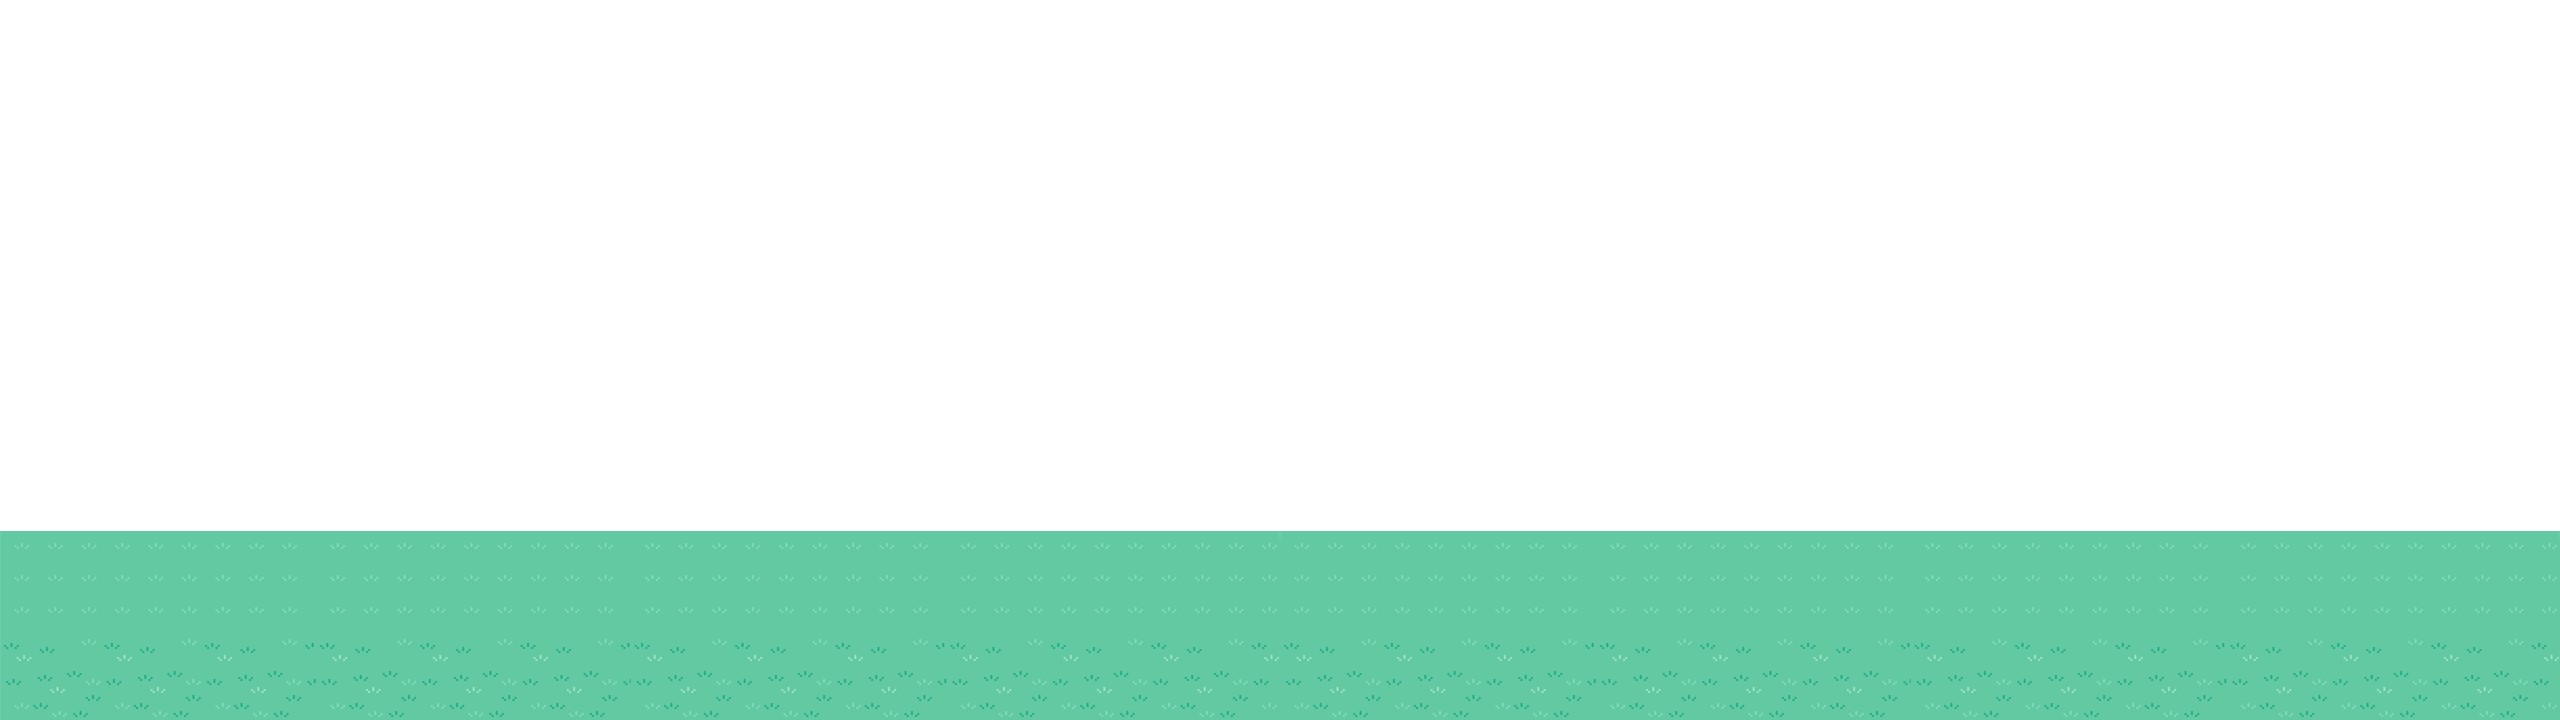
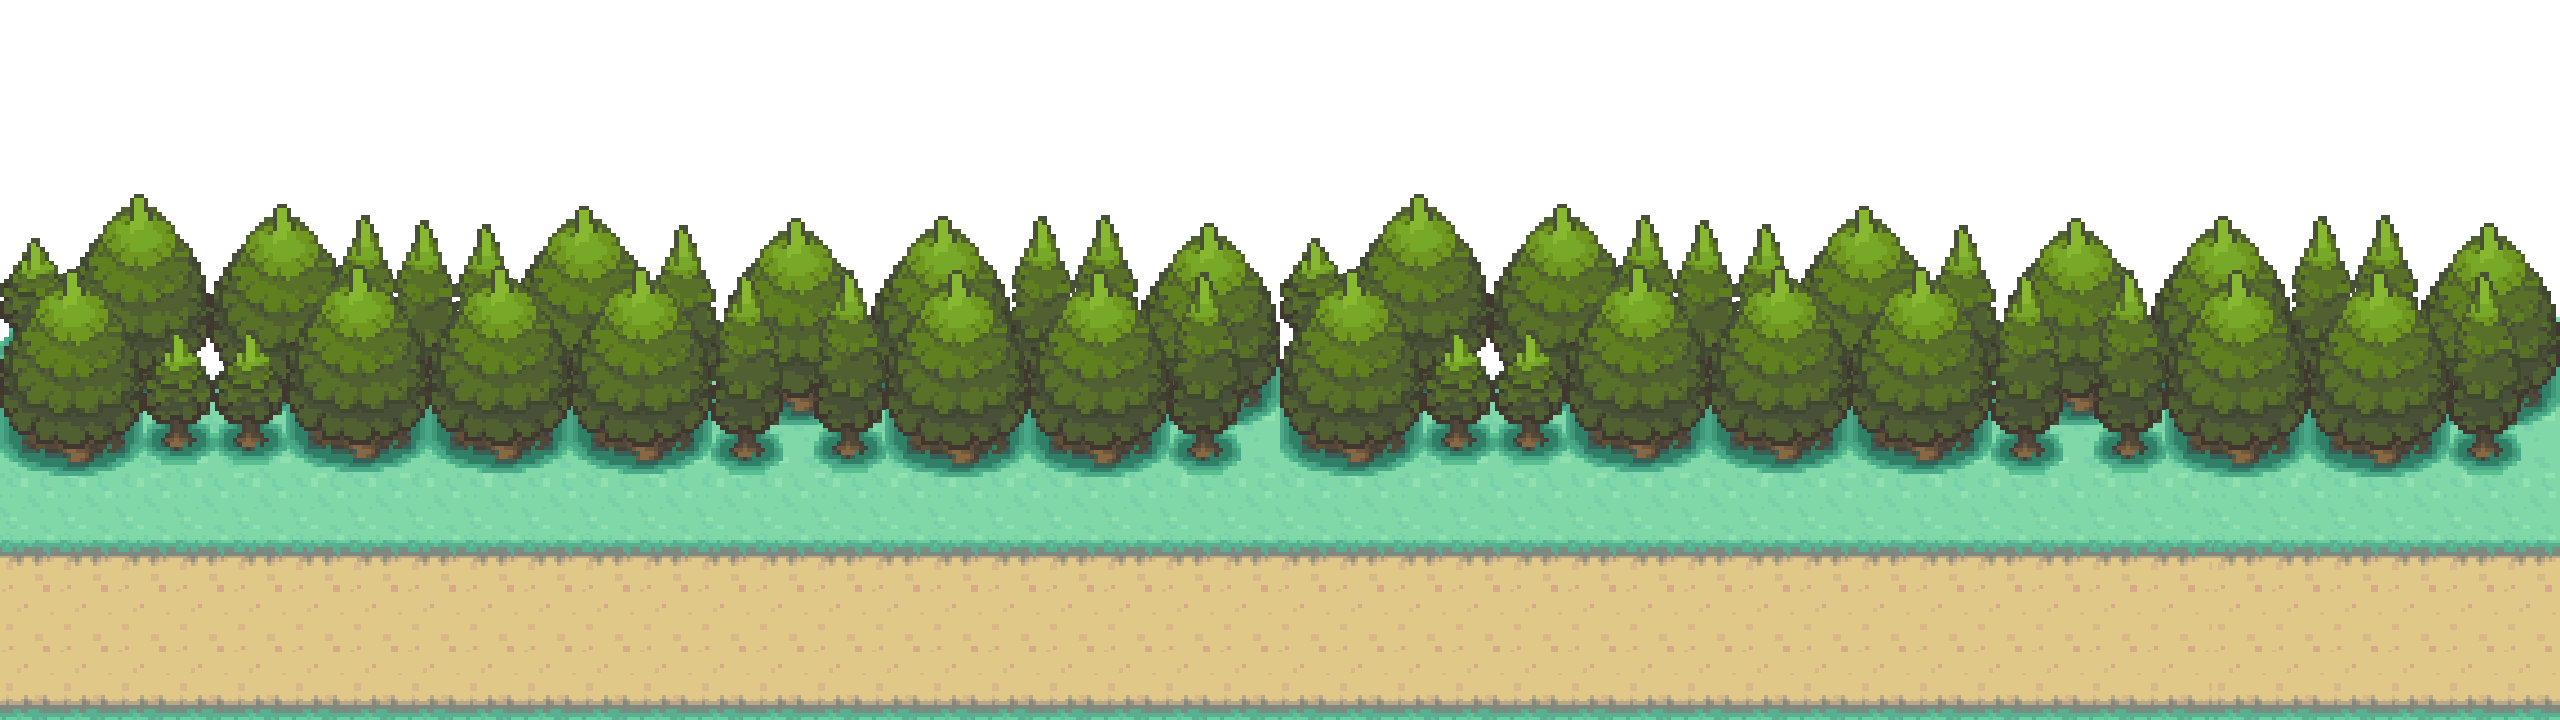
Añadidas capas al fondo

diff --git a/Pokemon/src/pantalla/Pantalla.java b/Pokemon/src/pantalla/Pantalla.java
@@ -63,6 +63,8 @@ public class Pantalla extends JFrame implements Runnable, KeyListener, MouseList
 		bf.getGraphics().drawImage(fondo.getNubes(), fondo.getX(), 0, this);
 		fondo.moverNubes();
 		
+		bf.getGraphics().drawImage(terreno.getMontes().getImagen(), terreno.getMontes().getX(), 0, this);
+		bf.getGraphics().drawImage(terreno.getBosque().getImagen(), terreno.getBosque().getX(), 0, this);
 		bf.getGraphics().drawImage(terreno.getImagen(), terreno.getX(), 0, this);
 		
 		for(Entidad entidad : entidades) {				
@@ -78,8 +80,8 @@ public class Pantalla extends JFrame implements Runnable, KeyListener, MouseList
 				mov = true;
 			}
 			int escala = entidad.getEscala();
-			int dx1 = this.getWidth()/2 - (8*escala);
-			int dy1 = this.getHeight()/2 - (10*escala) + 175;
+			int dx1 = this.getWidth()/2 - (entidad.getX()*escala);
+			int dy1 = this.getHeight()/2 - (entidad.getY()*escala) + 200;
 			int dx2 = (dx1 + (16*escala));
 			int dy2 = (dy1 + (20*escala));
 			int sx1 = entidad.getSx();

diff --git a/Pokemon/src/entidades/Terreno.java b/Pokemon/src/entidades/Terreno.java
@@ -1,15 +1,35 @@
 package entidades;
 
 public class Terreno extends Entidad {
+	private Entidad monte;
+	private Entidad bosque;
 
 	public Terreno() {
-		super("fondo/suelo", -1240, 0);
+		super("fondo/suelo", -1280, 0);
+		bosque = new Entidad("fondo/suelo2", -1280, 0);
+		monte = new Entidad("fondo/montes", -1280, 0);
 	}
 	
 	public void moverTerreno() {
-		setX(getX()+2);
+		setX(getX()+4);
 		if(getX() >= 0) {
-			setX(-1240);
+			setX(-1280);
 		}
+		bosque.setX(bosque.getX()+3);
+		if(bosque.getX() >= 0) {
+			bosque.setX(-1280);
+		}
+		monte.setX(monte.getX()+2);
+		if(monte.getX() >= 0) {
+			monte.setX(-1280);
+		}
+	}
+	
+	public Entidad getMontes() {
+		return monte;
+	}
+	
+	public Entidad getBosque() {
+		return bosque;
 	}
 }

diff --git a/Pokemon/src/principal/MainLoop.java b/Pokemon/src/principal/MainLoop.java
@@ -23,7 +23,7 @@ public class MainLoop {
 		GUI equis = new GUI("botones/equis", 0, 0, "equis");
 		equis.setY(cuadrado.getY() - (equis.getY2() / 2));
 		equis.setX(cuadrado.getX2());
-		GUI circulo = new GUI("botones/circulo", 0, 0, "circulo", 300);
+		GUI circulo = new GUI("botones/circulo", 0, 0, "circulo");
 		circulo.setX(pt.getWidth() - circulo.getX2());
 		circulo.setY(cuadrado.getY() - (circulo.getY2() / 2));
 		
@@ -34,7 +34,7 @@ public class MainLoop {
 	}
 	
 	private static void cargarPJ() {
-		EntidadControlable pj = new EntidadControlable("sprites/pj");		
+		EntidadControlable pj = new EntidadControlable("sprites/pj", 8, 10);		
 		pt.meterEntidadControlable(pj);
 	}
 }

diff --git a/Pokemon/src/entidades/EntidadControlable.java b/Pokemon/src/entidades/EntidadControlable.java
@@ -1,7 +1,7 @@
 package entidades;
 
 public class EntidadControlable extends Entidad {
-	private static final int VELOCIDAD = 20;
+	private static final int VELOCIDAD = 10;
 	
 	private int sx;
 	private int escala;
@@ -9,10 +9,10 @@ public class EntidadControlable extends Entidad {
 	private int animacion;
 	private int pasos;
 
-	public EntidadControlable(String archivo) {
-		super(archivo, 0, 0);
+	public EntidadControlable(String archivo, int x, int y) {
+		super(archivo, x, y);
 		sx = 0;
-		escala = 10;
+		escala = 8;
 		cont = 0;
 		animacion = 0;
 		pasos = 0;
